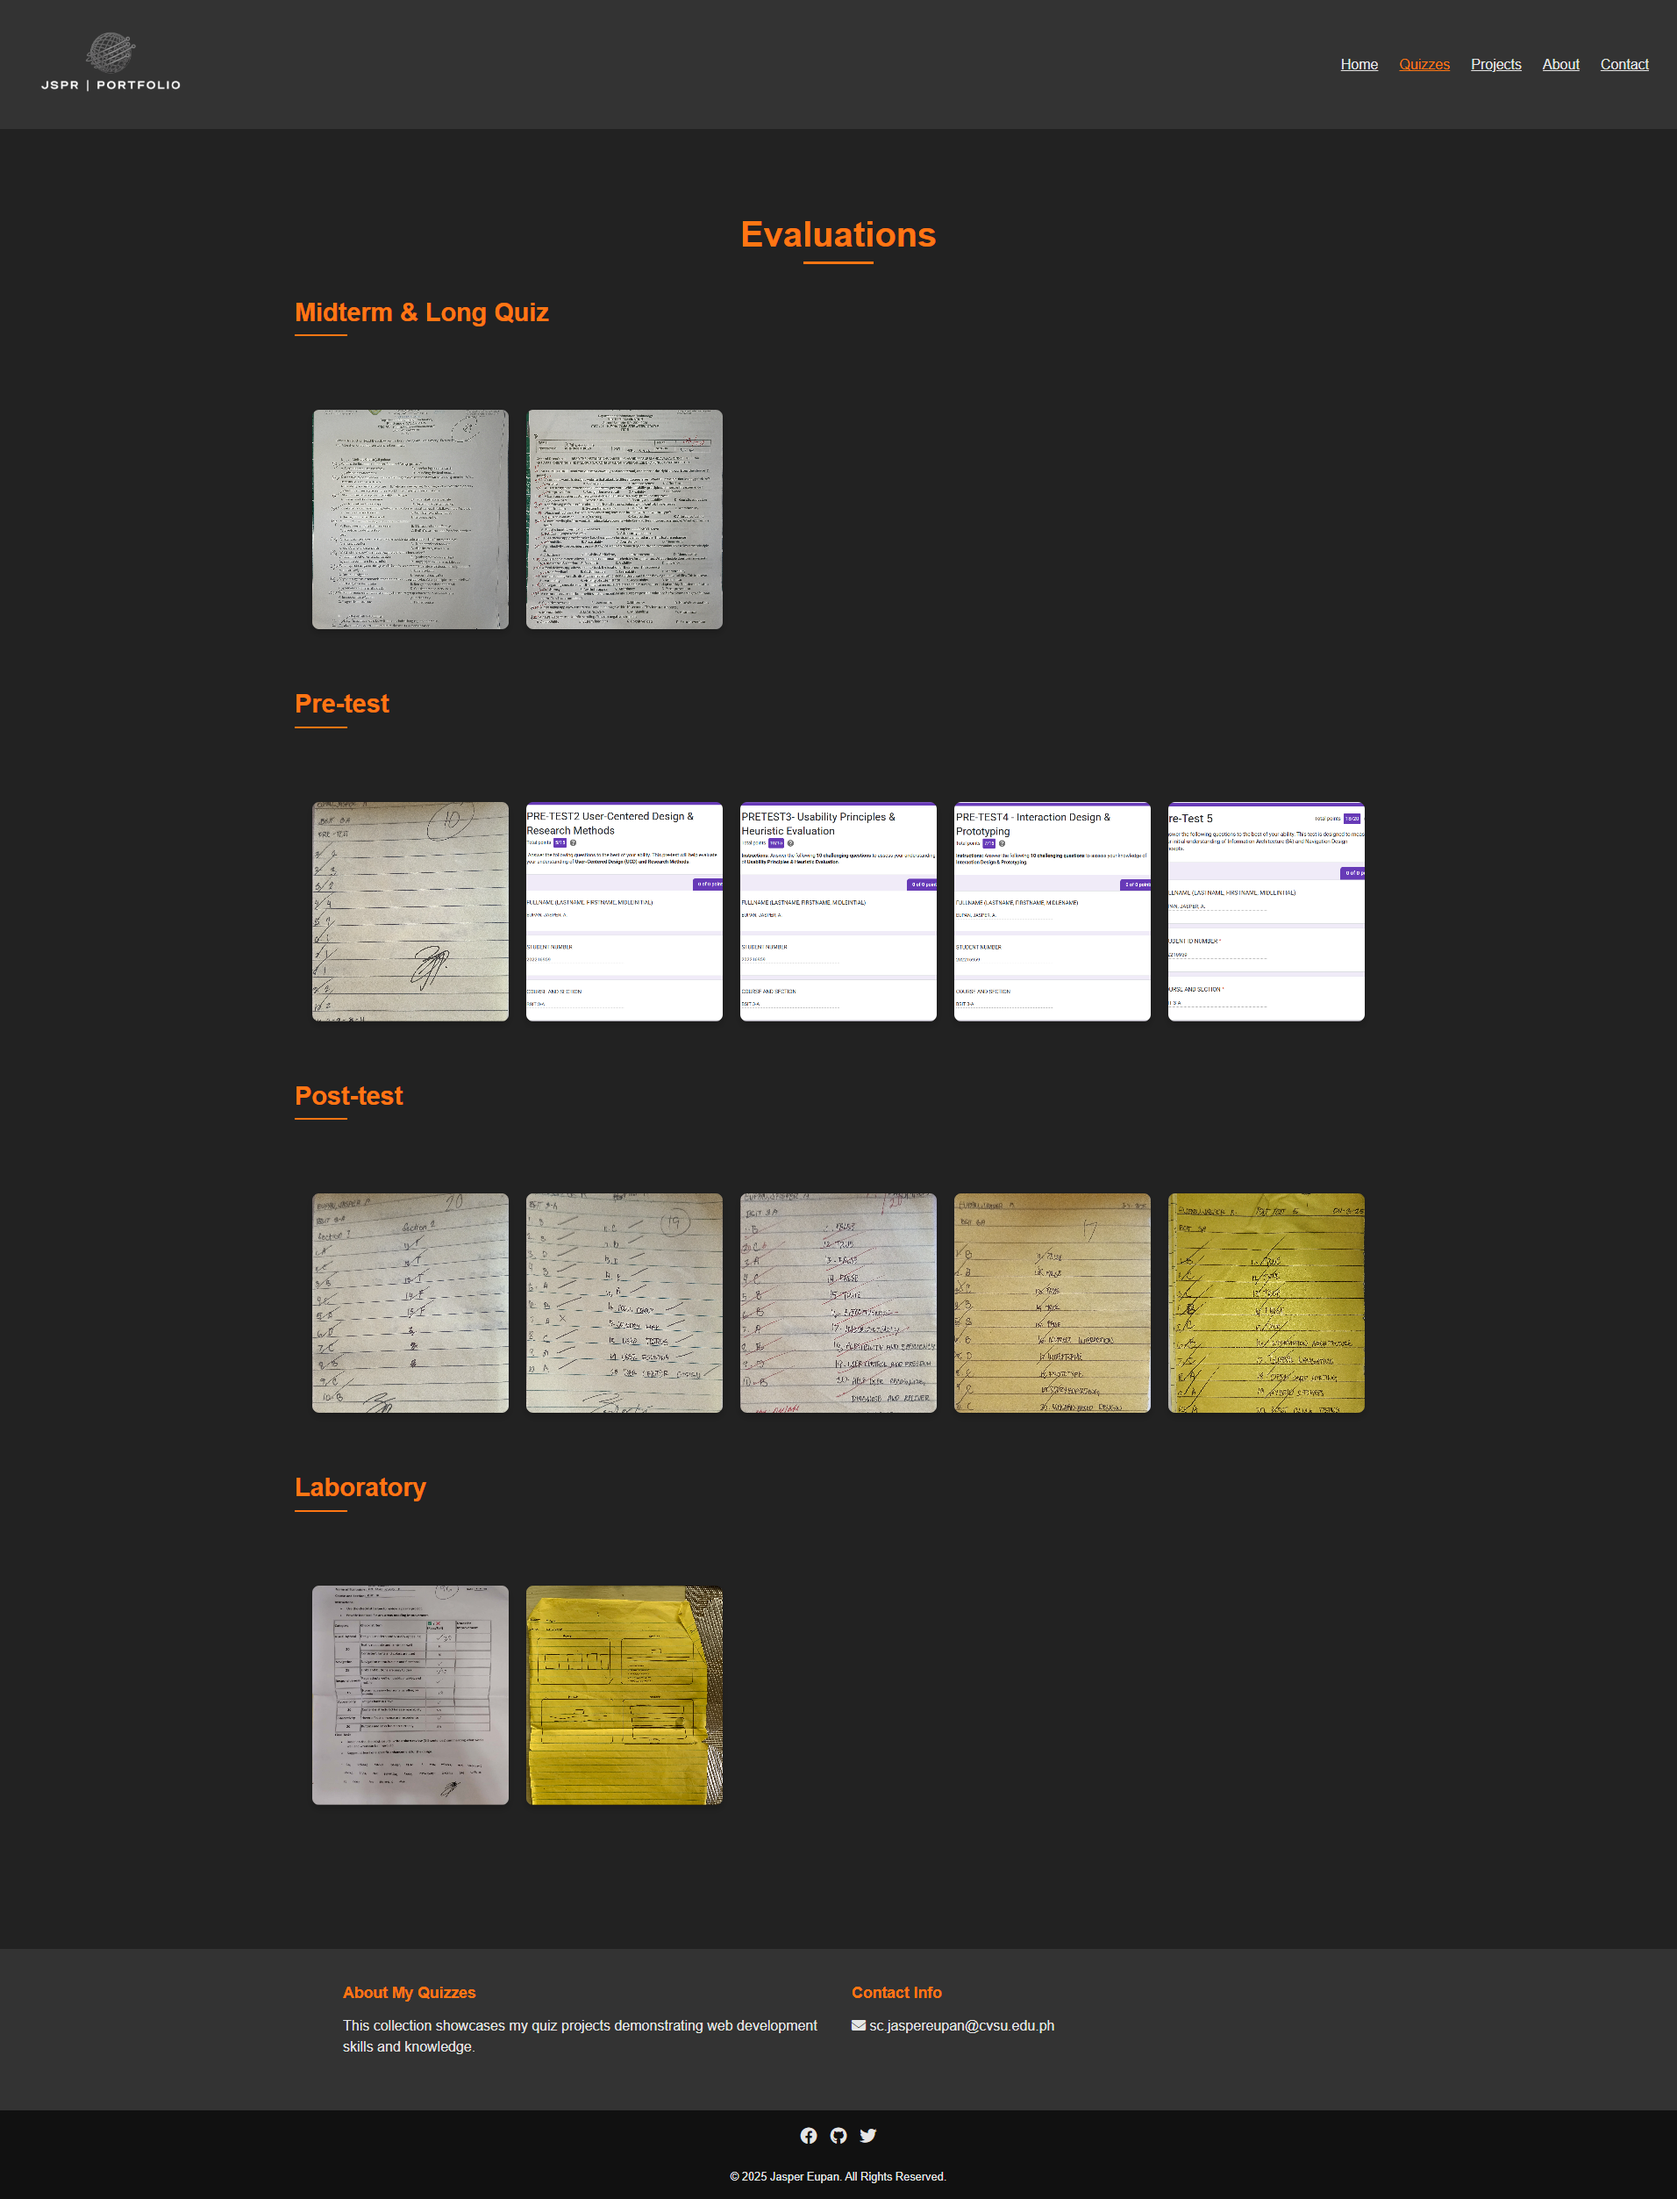
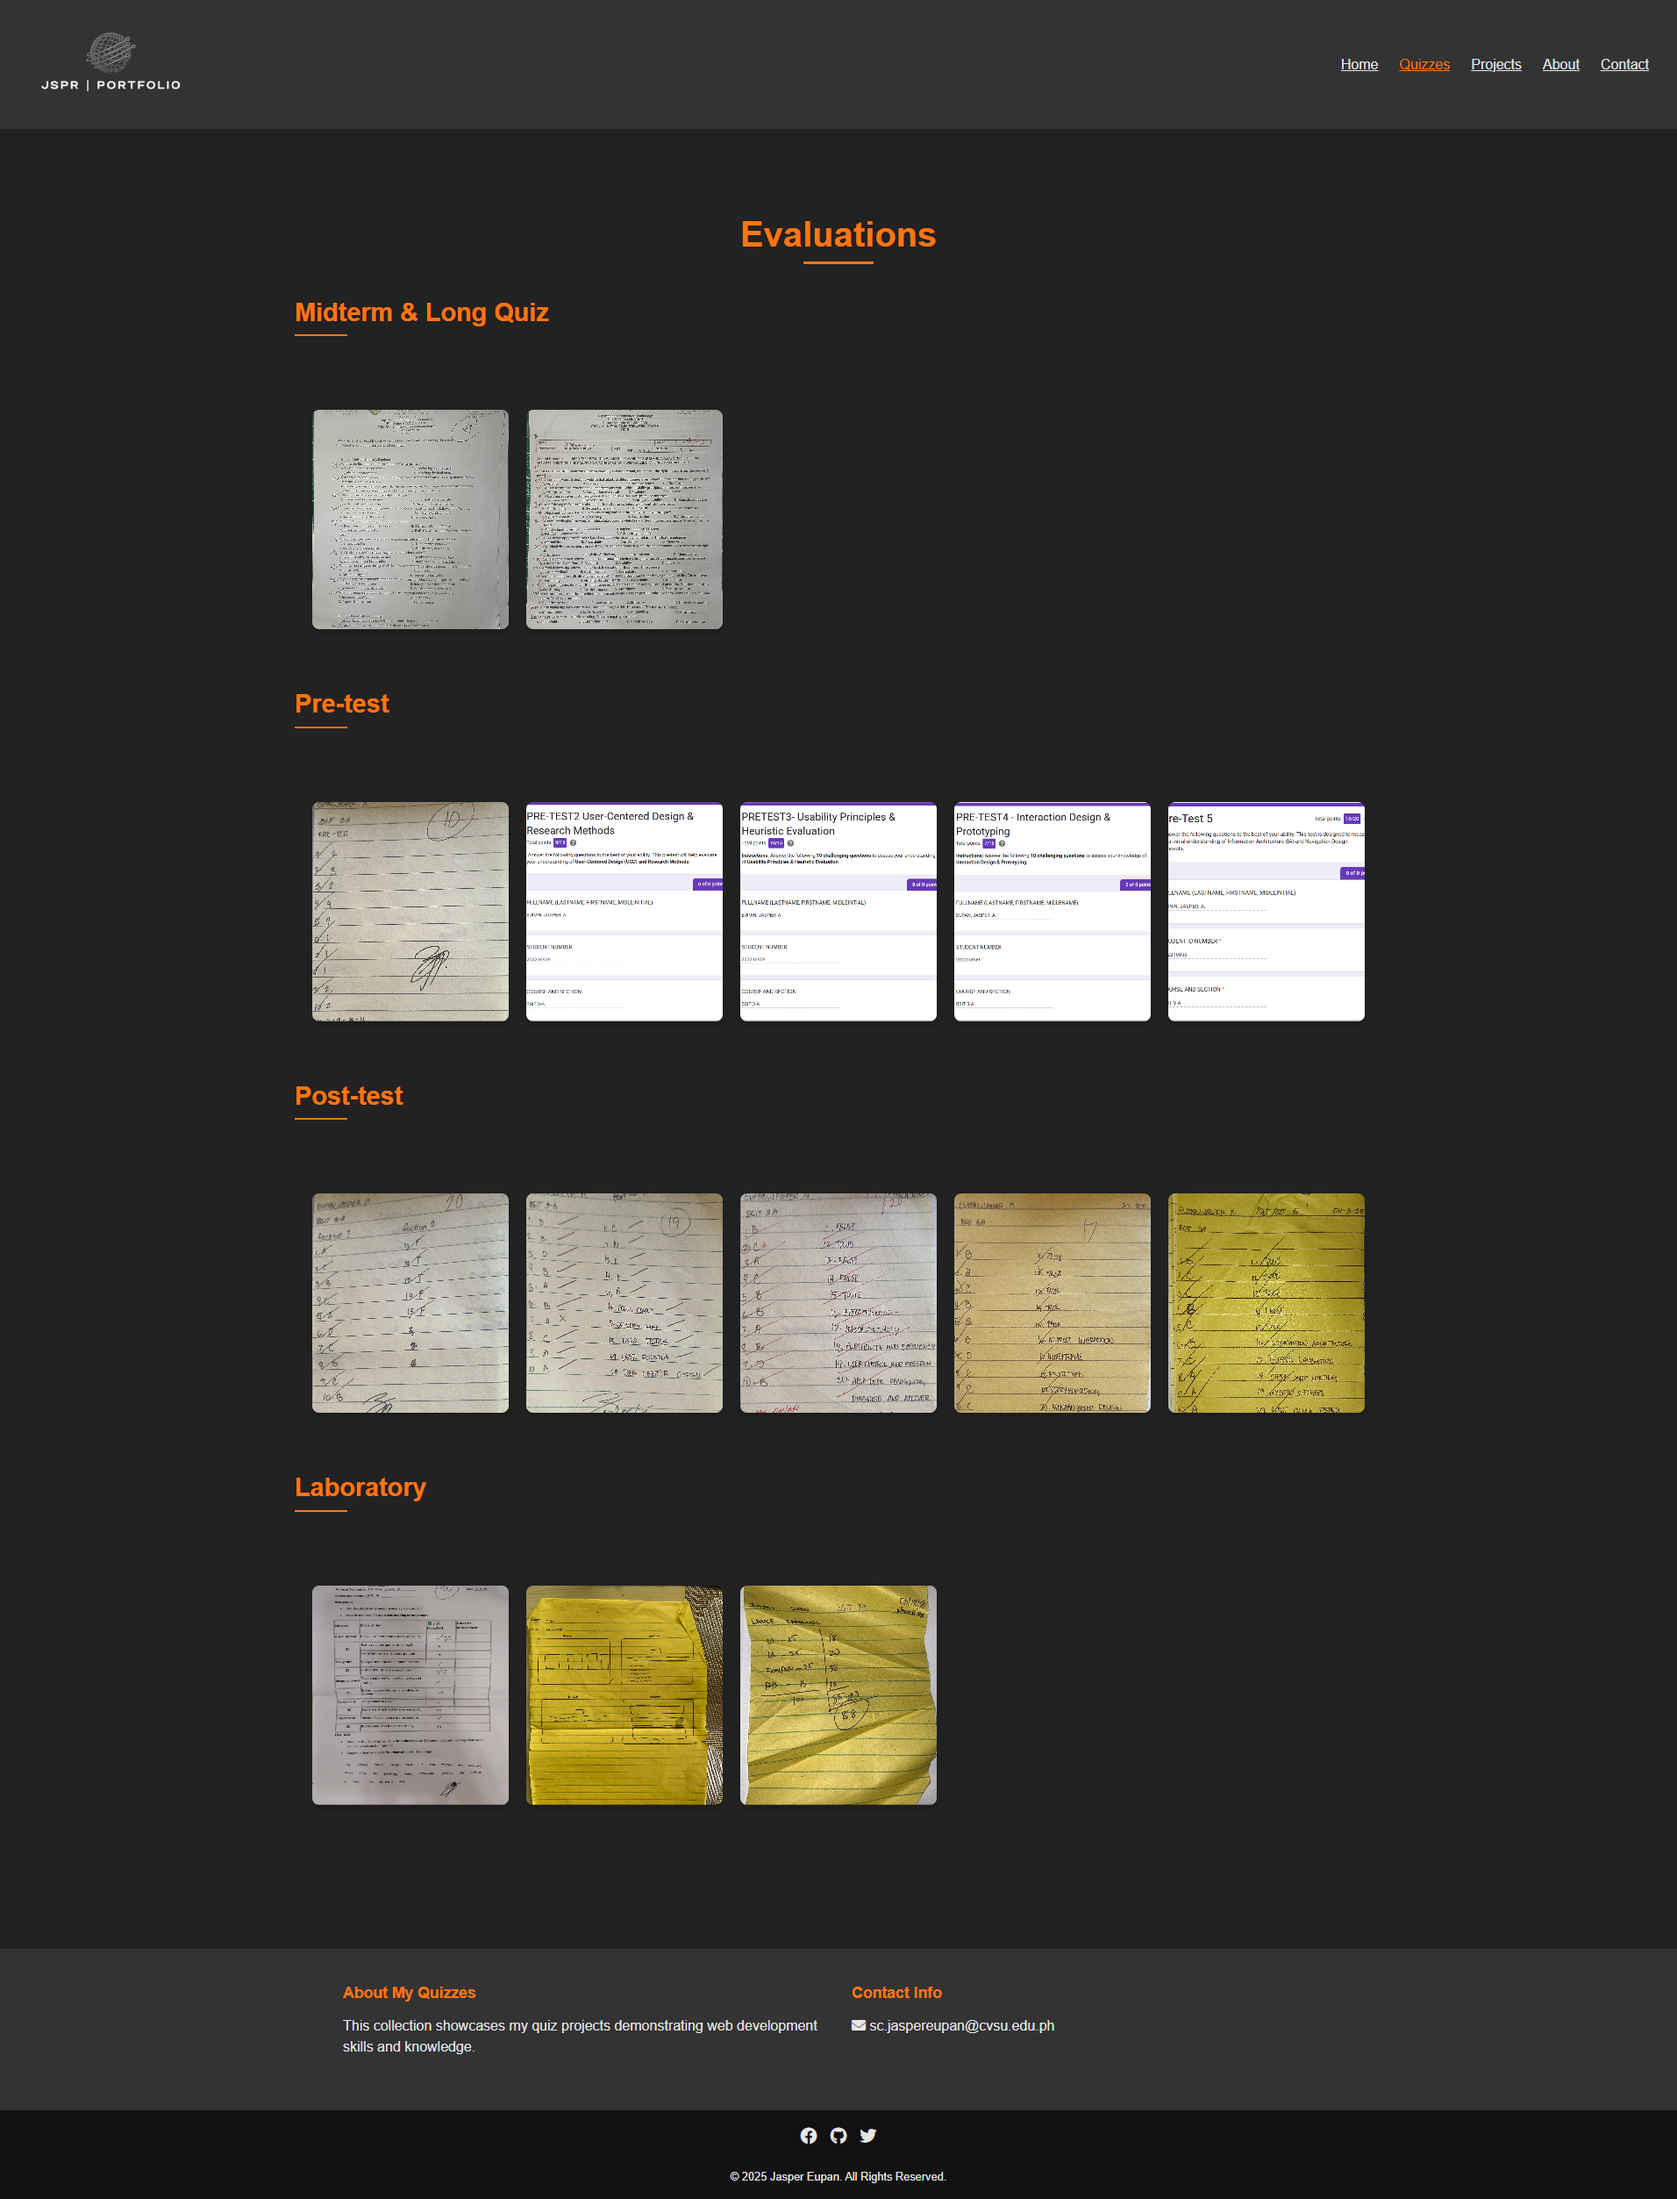
Initial commit - Web Portfolio

Changed region(s): [[0.432, 0.7159, 0.5863, 0.8404]]

diff --git a/js/script.js b/js/script.js
@@ -89,7 +89,8 @@ if (Object.values(quizGalleries).some(gallery => gallery !== null)) {
         ],
         laboratory: [
             { src: "images/Lab 1.jpeg", desc: "Laboratory 1" },
-            { src: "images/Lab 1 - Wireframe.jpeg", desc: "Laboratory 1 - Wireframe" }
+            { src: "images/Lab 1 - Wireframe.jpeg", desc: "Laboratory 1 - Wireframe" },
+            { src: "images/Lab 2.jpeg", desc: "Laboratory 2" }
         ]
     };
     
